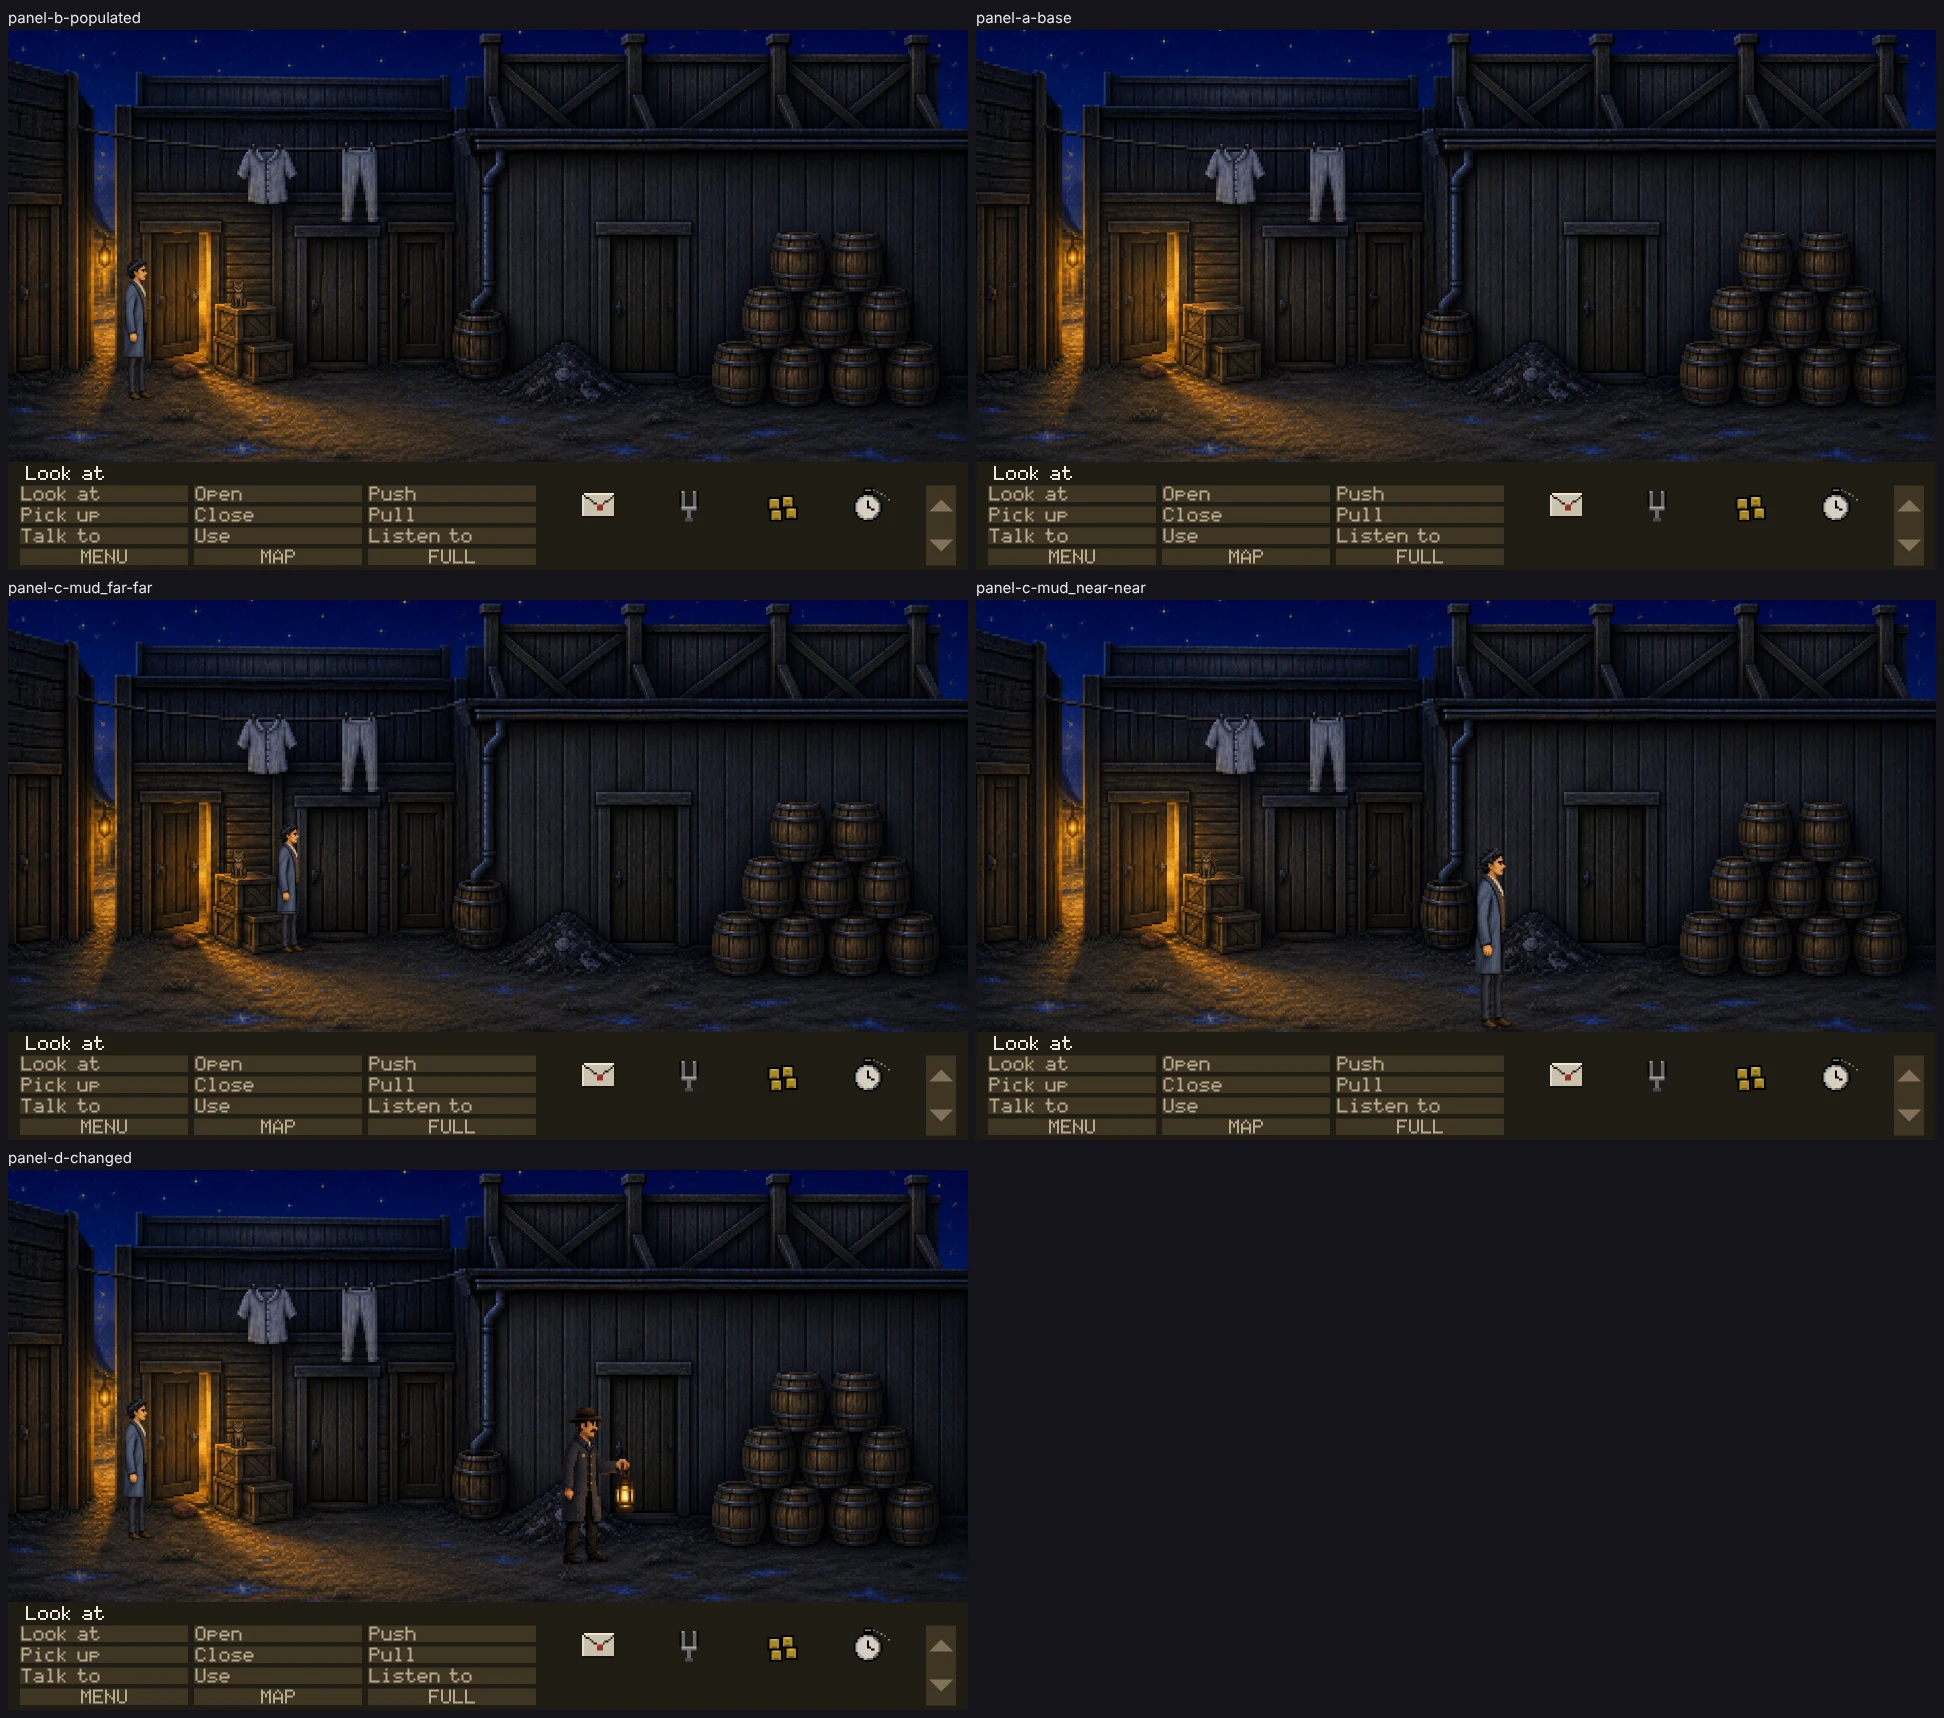
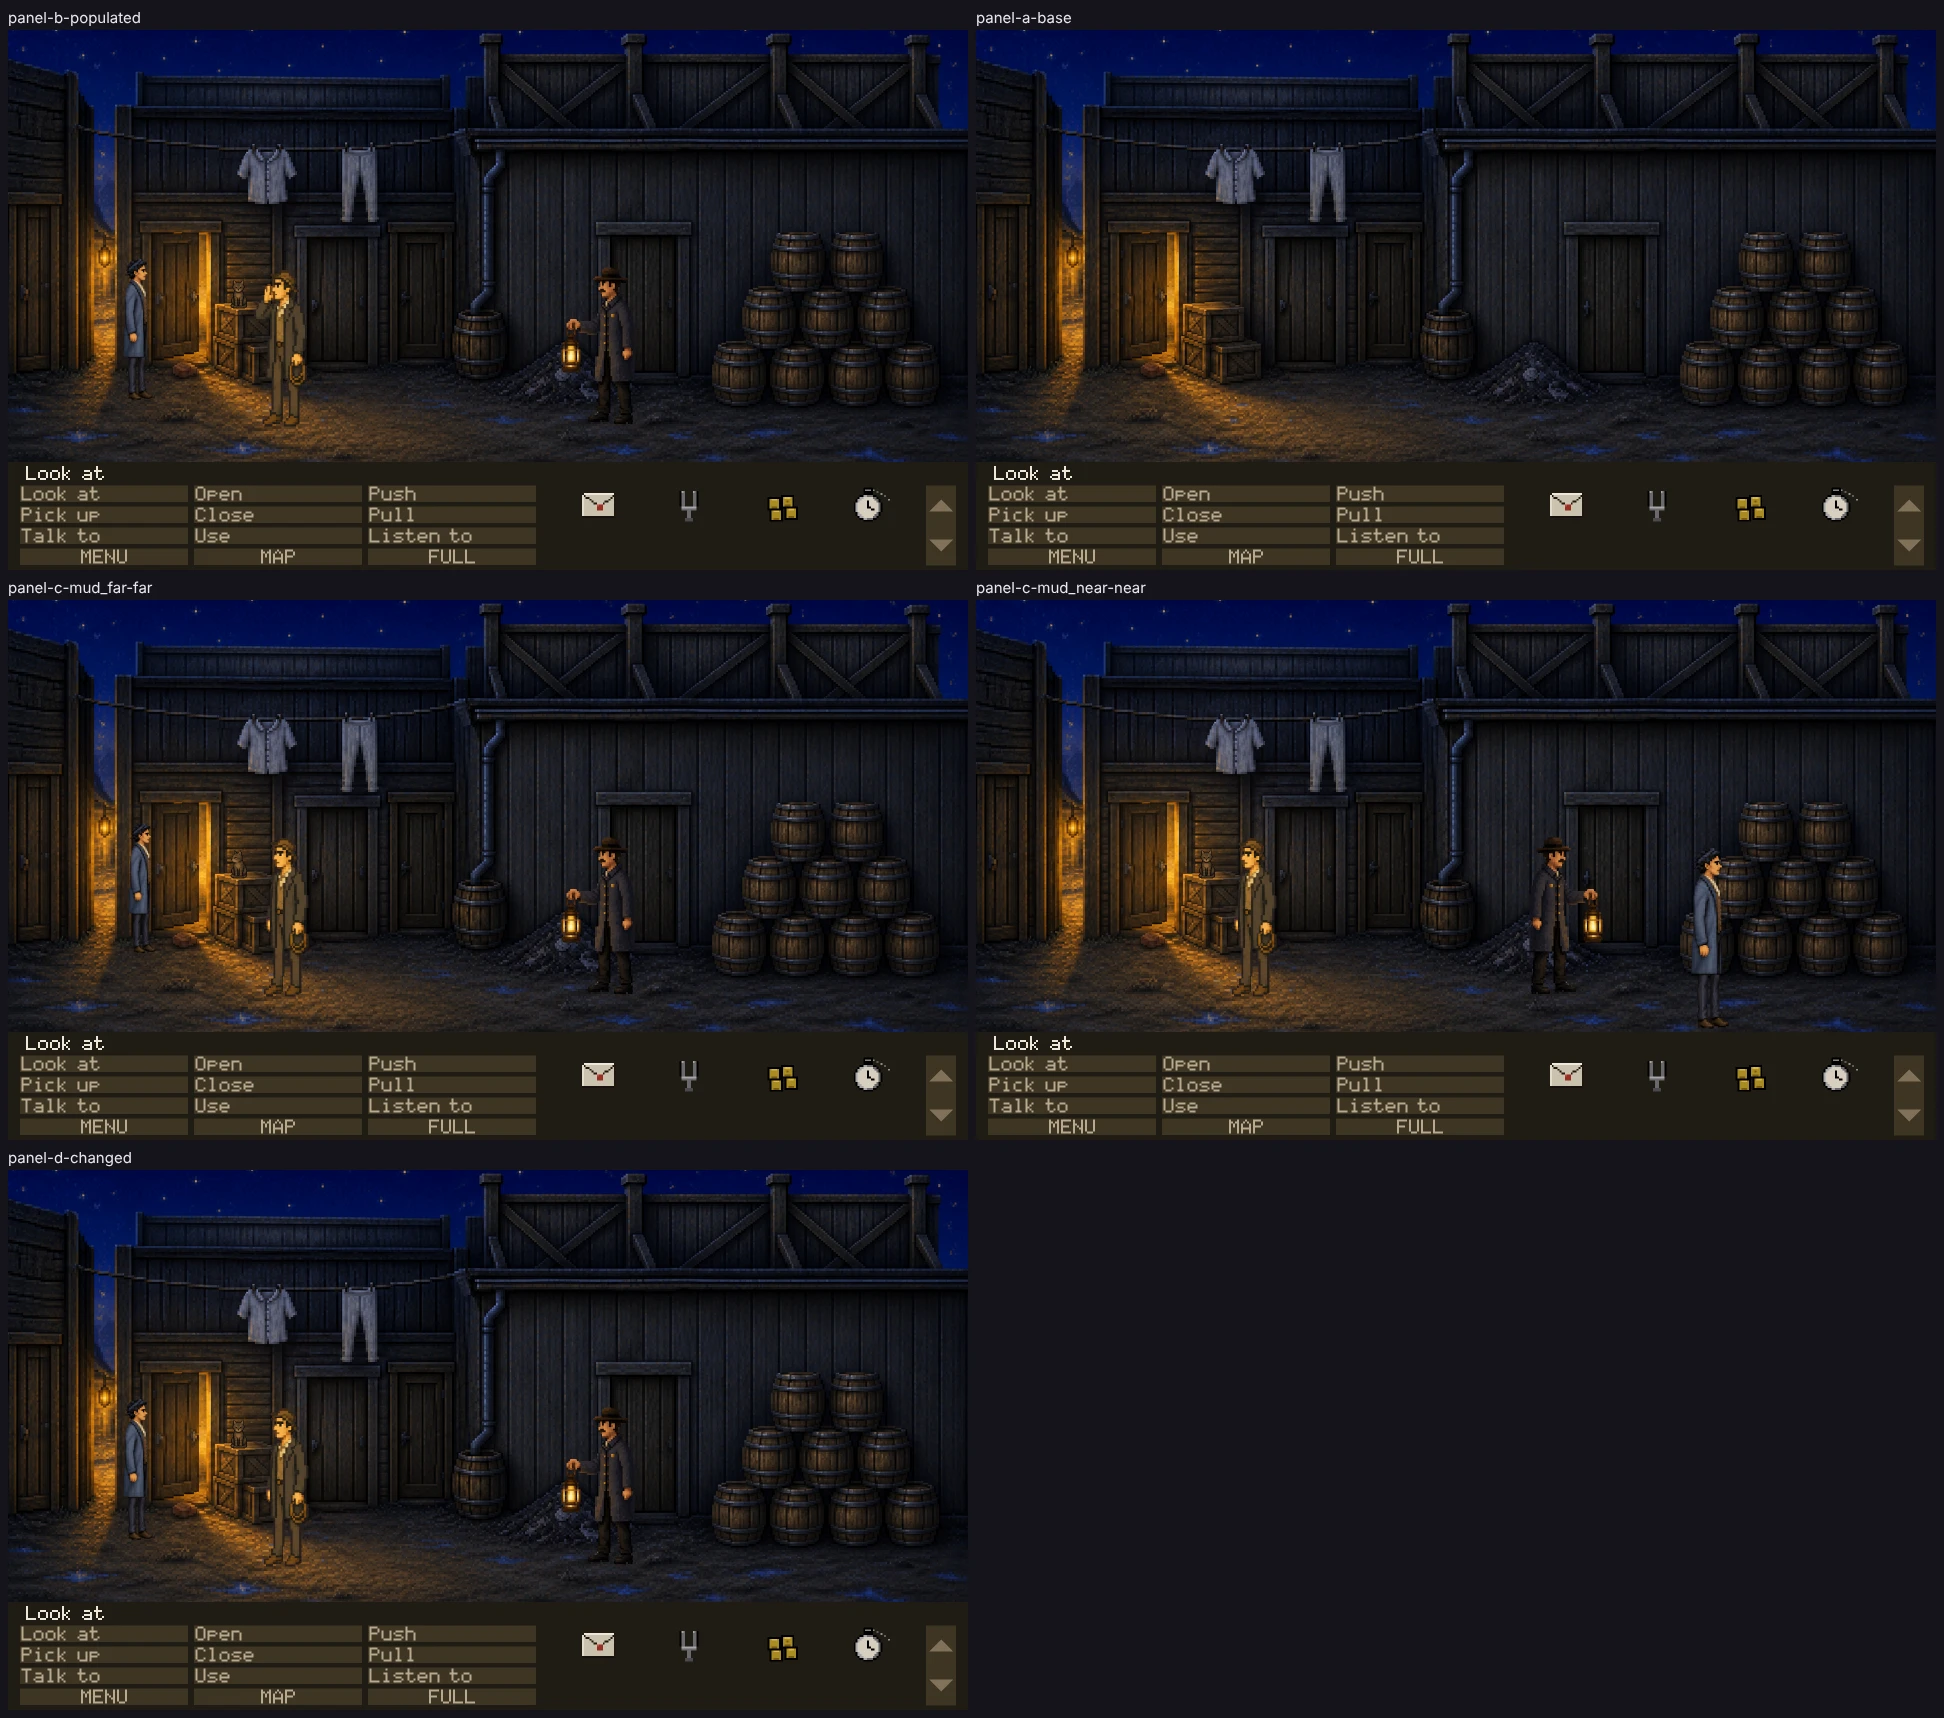
Proof: back_alley with errata 111's townspeople
Claude-Session: https://claude.ai/code/session_01FXbCurjq3gWmZKUYv89gwi

diff --git a/renders/proofs/back-alley/index.html b/renders/proofs/back-alley/index.html
@@ -17,7 +17,7 @@
 </style>
 <h1>back_alley — four-panel live-runtime proof</h1>
 <p class="lede">Every frame below is the full play area as the renderer drew it, in the running
-game, at <code>456d1bfa</code> on <code>ccr-347d40c6-71r9f9</code>.
+game, at <code>0a5eb074</code> on <code>claude/tender-sagan-buz50u</code>.
 No crop, isolated sprite or source image appears here: those are for diagnosing what a full
 frame has already shown.</p>
 <p class="lede"><b>These panels establish technical admissibility only.</b> Nothing here says the
@@ -68,8 +68,8 @@ art is good, in style, funny or approved. Only Tyler sets <code>visual_accepted<
     <img src="raw-captures-ignored/panel-c-mud_far-far.png" alt="">
     <figcaption><b>PANEL C &mdash; mud_far far, authored y706</b>
       <span>expected 259px &middot; runtime 259px &middot;
-        silhouette 260px, bottom y706</span>
-      <span>art/actors/thad-idlebreak-right/idle-break-02.png</span>
+        silhouette 271px, bottom y705</span>
+      <span>art/actors/thad-idle-right/idle-01.png</span>
     </figcaption>
   </figure>
   <figure>
@@ -77,6 +77,6 @@ art is good, in style, funny or approved. Only Tyler sets <code>visual_accepted<
     <figcaption><b>PANEL C &mdash; mud_near near, authored y857</b>
       <span>expected 361px &middot; runtime 361px &middot;
         silhouette 362px, bottom y857</span>
-      <span>art/actors/thad-idlebreak-right/idle-break-06.png</span>
+      <span>art/actors/thad-idlebreak-right/idle-break-01.png</span>
     </figcaption>
   </figure>
